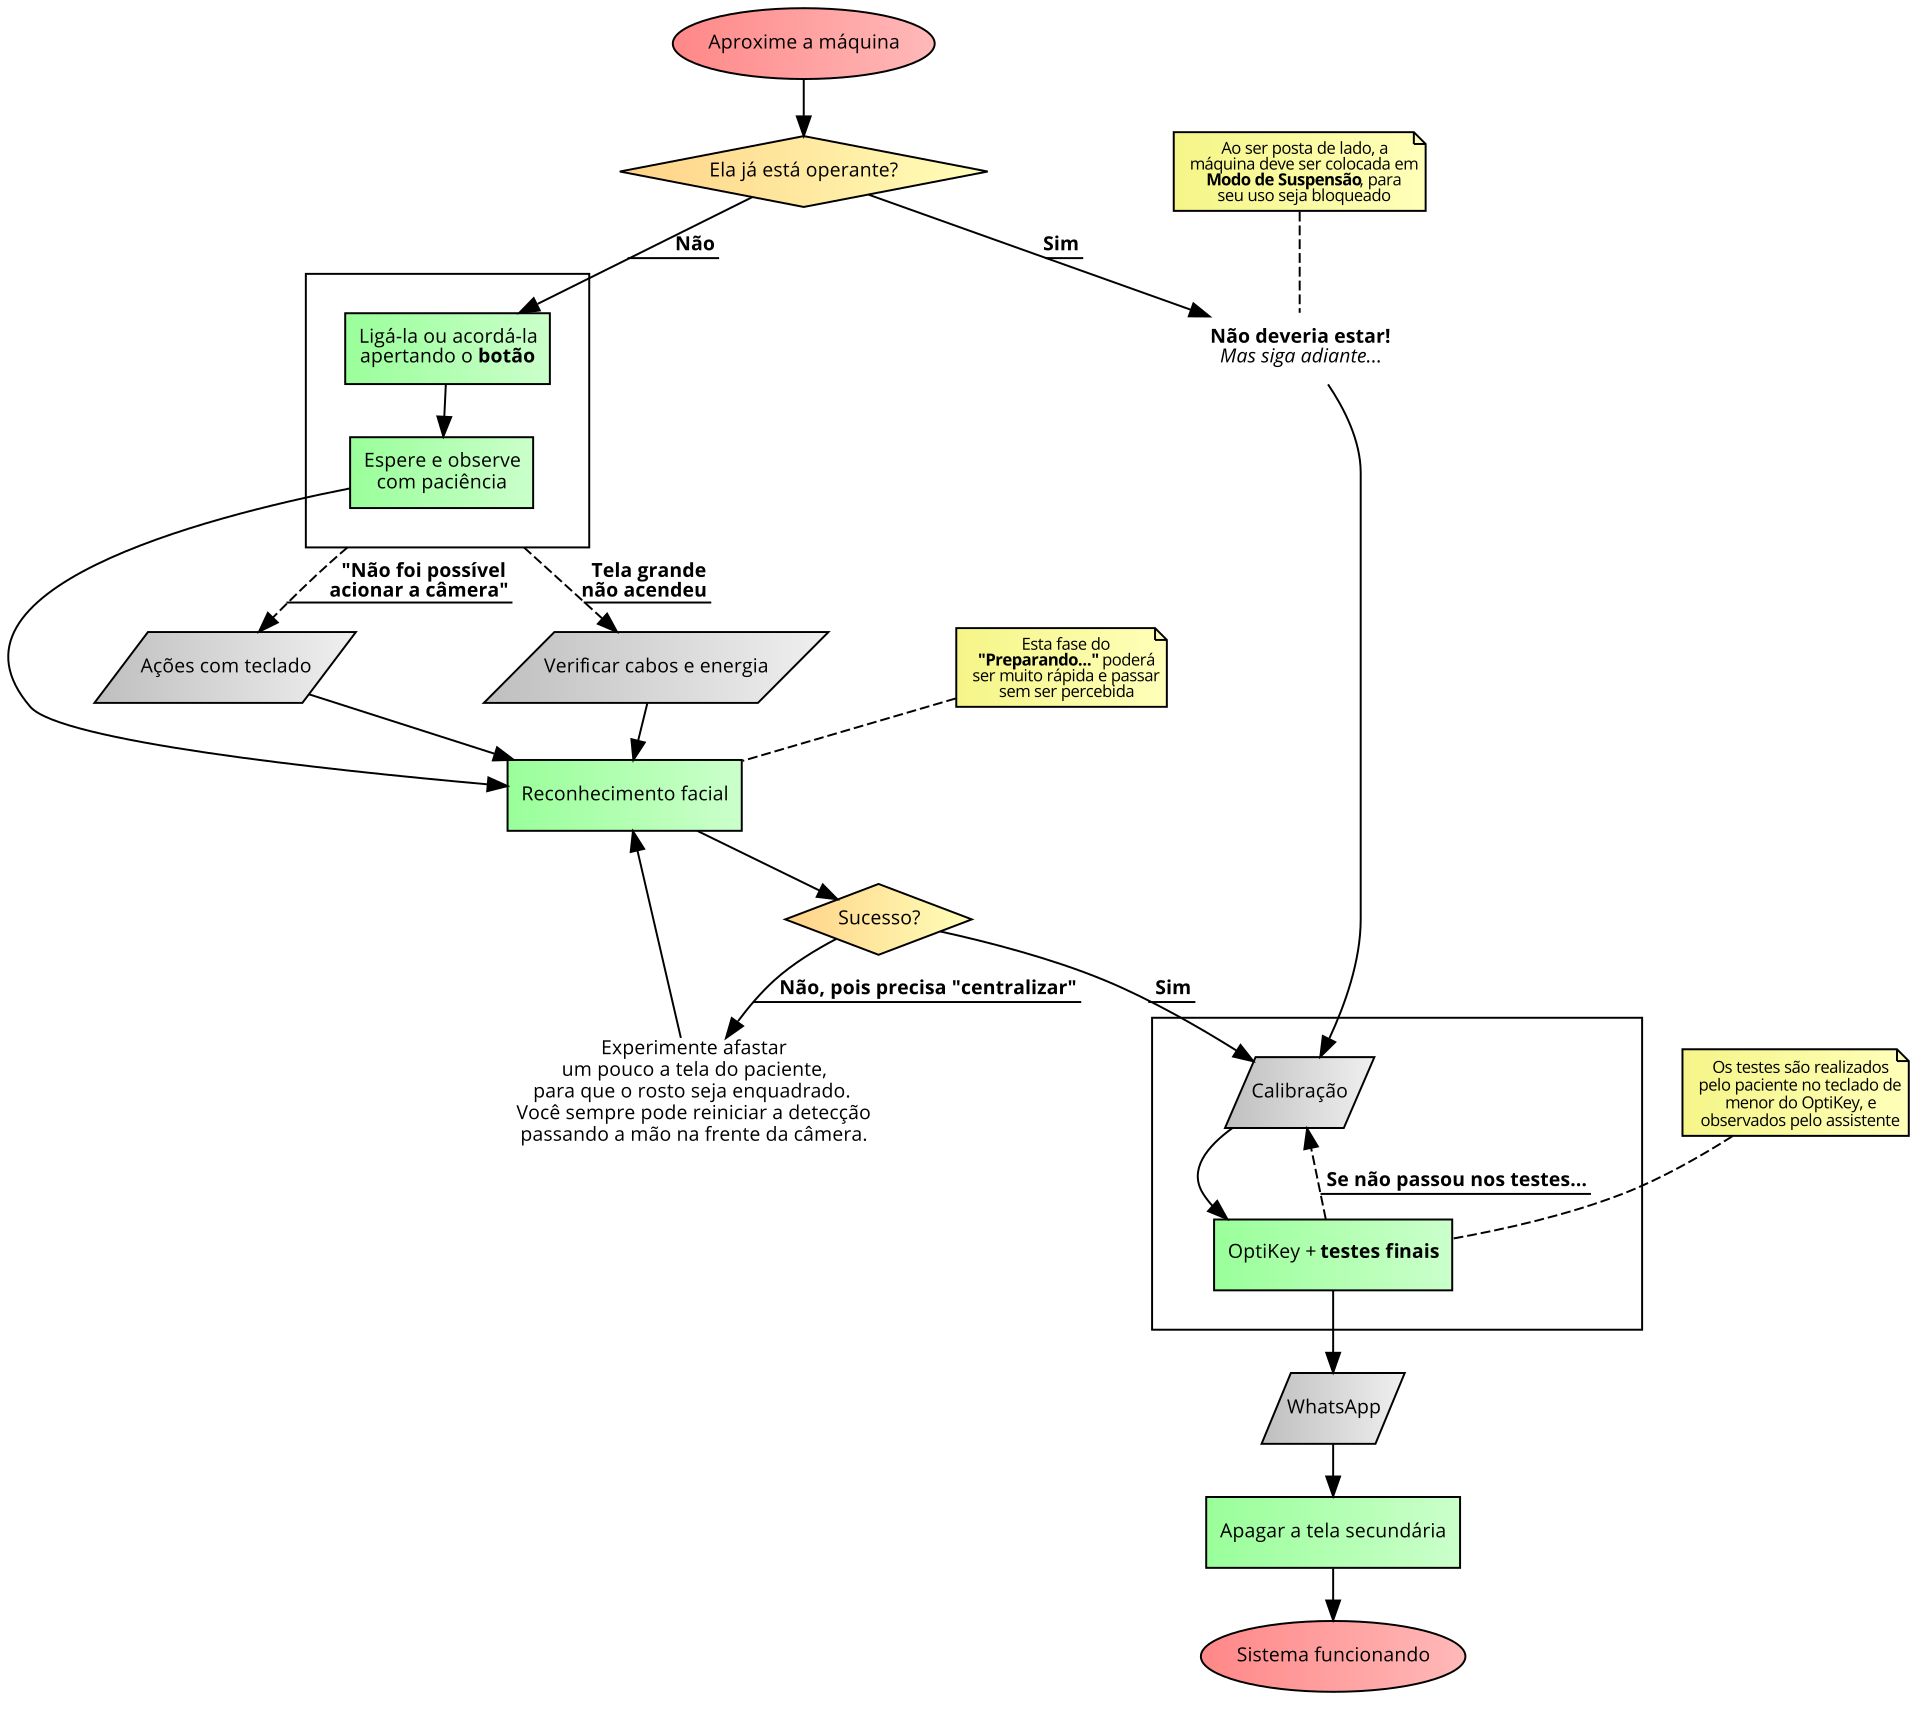
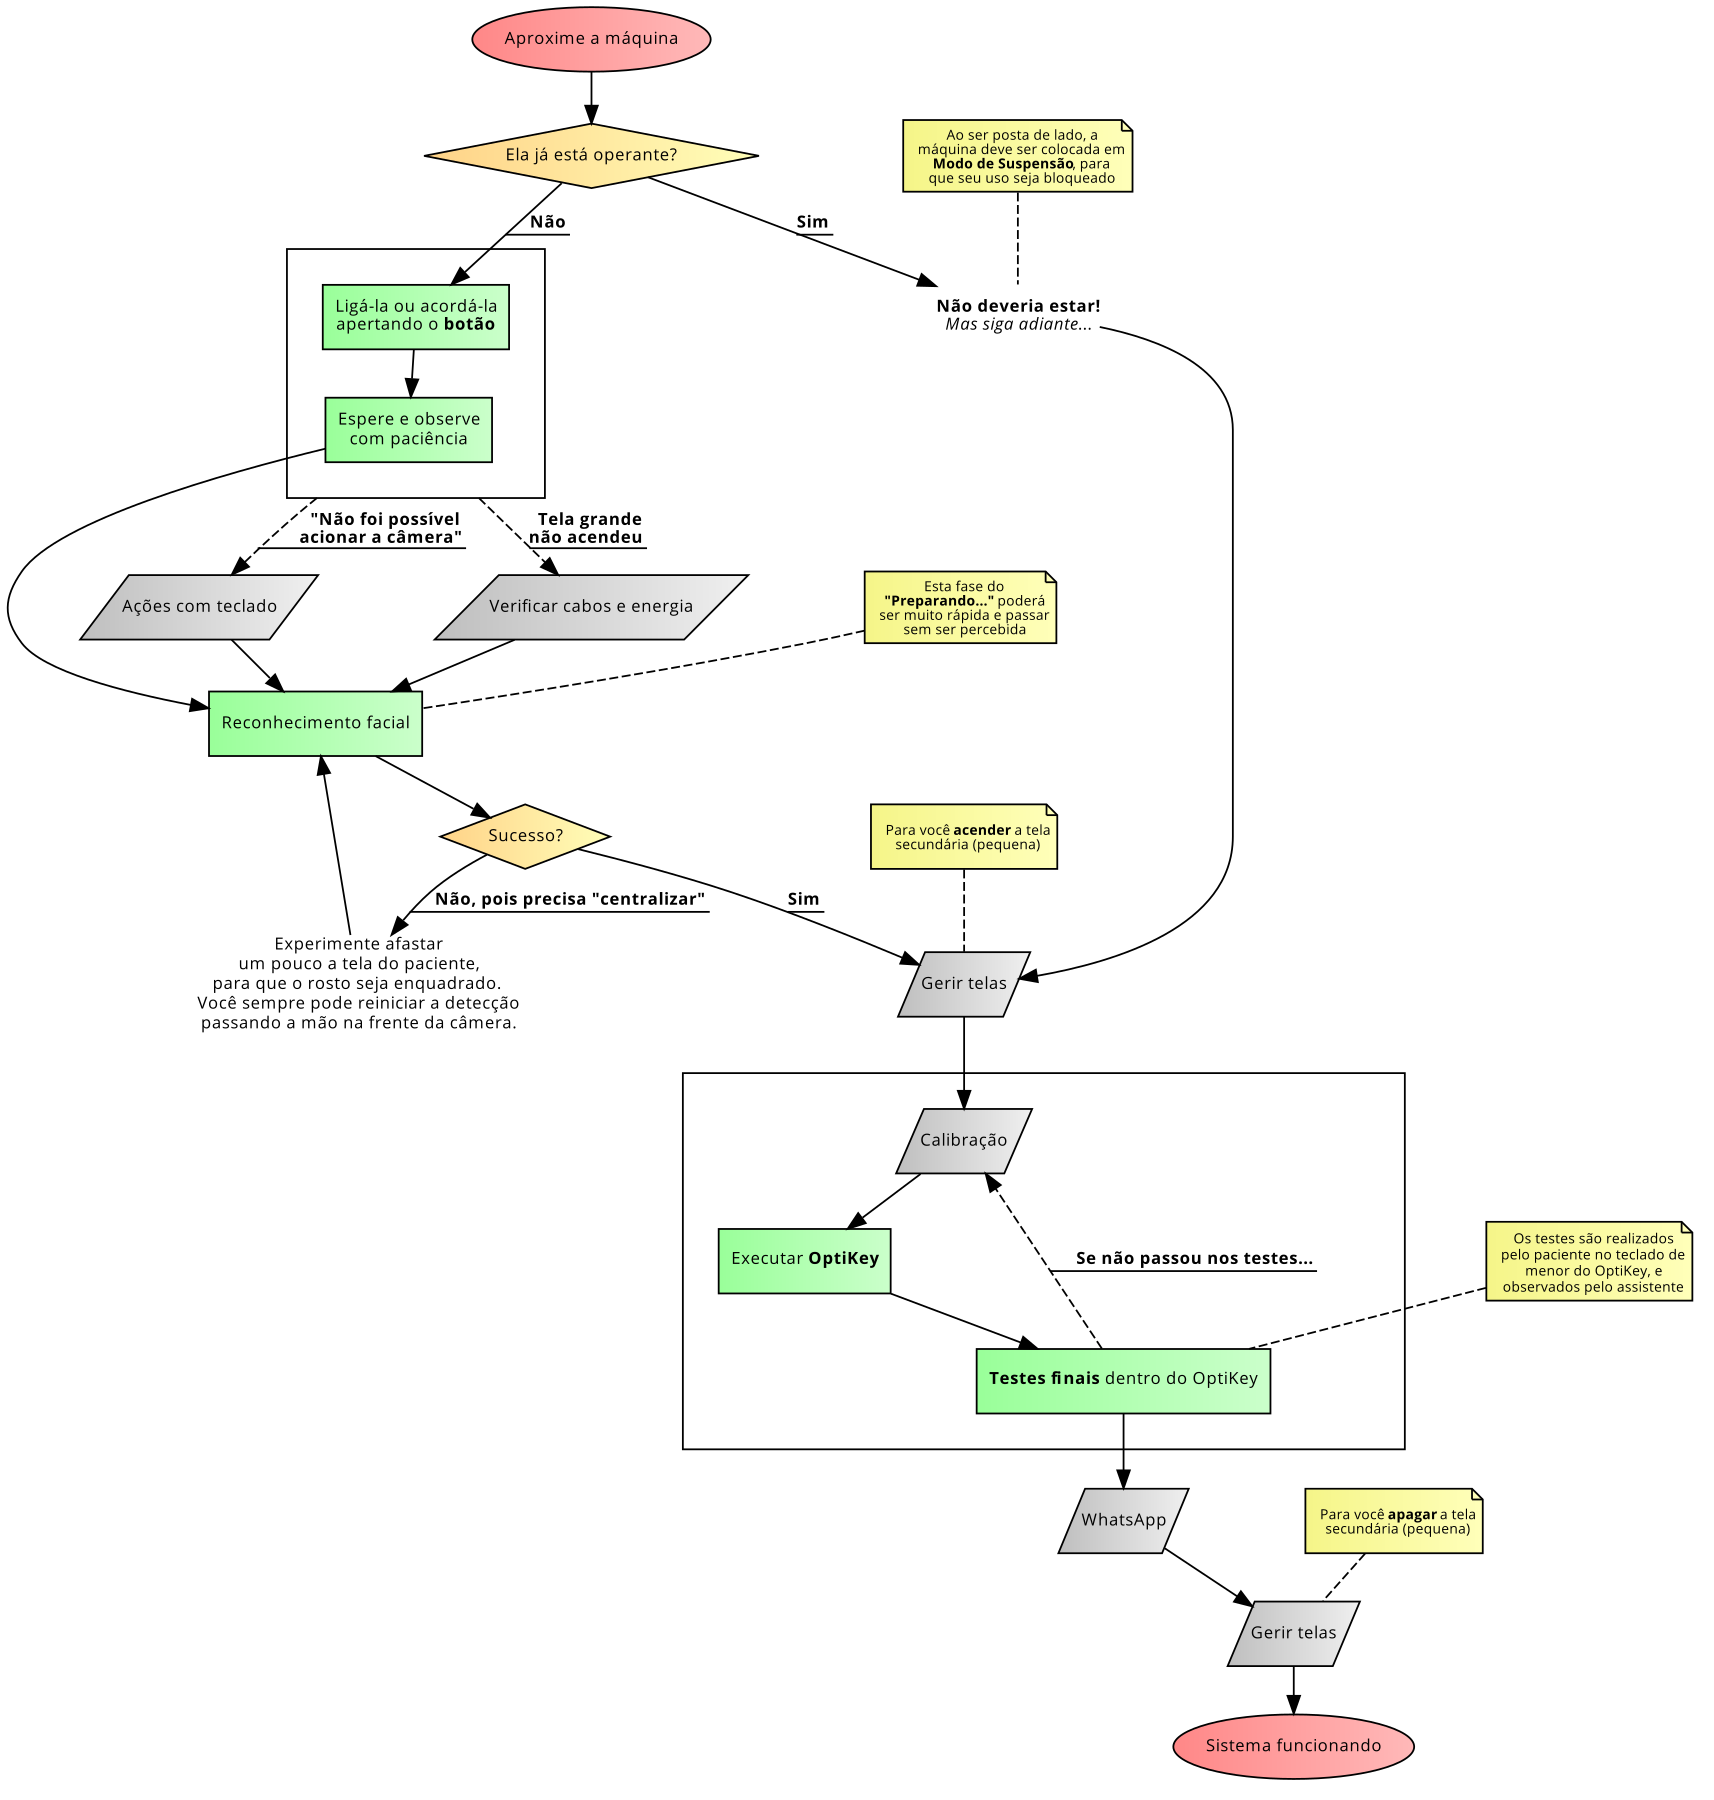
"ENE-hugo#26"

Changed region(s): [[0.0, 0.0, 0.9895, 0.9895], [0.4947, 0.3092, 0.6184, 0.4947], [0.6803, 0.4947, 0.7112, 0.5257]]

diff --git a/conhecimento/operacional/basico/index.html b/conhecimento/operacional/basico/index.html
@@ -141,14 +141,25 @@
 <li>Fluxo principal</li>
 </ul>
 
-<p>E quatro subfluxos:</p>
+<p>Mais cinco subfluxos:</p>
 
 <ul>
 <li>Ações com teclado</li>
 <li>Verificar cabos e energia</li>
+<li>Gerir telas</li>
 <li>Calibração</li>
 <li>WhatsApp</li>
 </ul>
+
+<p>E outro referido pelos dois últimos acima:</p>
+
+<ul>
+<li>Fechar OptiKey</li>
+</ul>
+
+<p>Se você nunca ouviu falar de fluxogramas, uma dica é tentar deixar as imagens falarem por si. Deixe que blocos, setas e notas guiem você, um passo por vez.</p>
+
+<p>Em dispositivo móvel, você pode ampliar e navegar essas imagens usando o movimento de pinça. No desktop, experimente o zoom do navegador de Internet, geralmente <code>Control+</code>.</p>
 
 <h2 id="fluxo-principal">Fluxo principal</h2>
 
@@ -203,6 +214,23 @@
 
 <p>O ponto de fim ideal seria o retorno a “Reconhecimento facial” — retângulo verde no fluxo principal. Porém, existe um segundo fim possível para esse subfluxo. Algo não desvendado e mais complicado, que requeira uma assistência técnica. Especialmente em nossas primeiras experiências de uso nós já pudemos constatar a <a href="https://pt.wikipedia.org/wiki/Lei_de_Murphy">Lei de Murphy</a> aplicada a telas penduradas.</p>
 
+<h2 id="gerir-telas">Gerir telas</h2>
+
+<p>É escolher qual tela deixar acesa ou apagada.</p>
+
+<p>Nosso equipamento tem um monitor grande, de 24 polegadas, anexado a um notebook conversível em <em>tablet</em>. O paciente, principal usuário, usa o monitor. Mas seu assistente quase sempre precisará da <em>touchscreen</em>.</p>
+
+
+<figure >
+    
+        <img src="http://ene.origem.net.br/conhecimento/fluxogramas/06-telas.png" />
+    
+    
+</figure>
+
+
+<p>Por motivos variados pode-se querer gerir as telas, e torna-se obrigatório pelo menos duas vezes dentro do fluxo principal.</p>
+
 <h2 id="calibração">Calibração</h2>
 
 <p>Estamos diante de um subfluxo crucial. Definitivamente não é opcional. Sem uma calibragem fina o paciente não suportará por muito tempo usar o teclado de digitação (que ocupa apenas metade da tela) ou as funções de mouse.</p>
@@ -248,6 +276,23 @@
 <p>Talvez tudo mude.</p>
 
 <p>Mas já funciona. Tente outra vez ou nos <a href="mailto:alexandre.mbm@gmail.com">envie</a> sua questão.</p>
+
+<h2 id="fechar-optikey">Fechar OptiKey</h2>
+
+<p>Nem sempre se consegue completar essa tarefa usando a <em>touchscreen</em>. Curiosamente o toque deixa de funcionar. Siga as dicas das notas.</p>
+
+
+<figure >
+    
+        <img src="http://ene.origem.net.br/conhecimento/fluxogramas/07-fechar.png" />
+    
+    
+</figure>
+
+
+<p>Por motivos variados pode-se querer fechar o OptiKey. E será obrigatório em pelo menos dois momentos: uma vez para calibração, uma vez para WhatsApp.</p>
+
+<p>Qualquer dúvida não hesite escrever a <a href="mailto:alexandre.mbm@gmail.com">alexandre.mbm@gmail.com</a>.</p>
 
                 
             </div>
